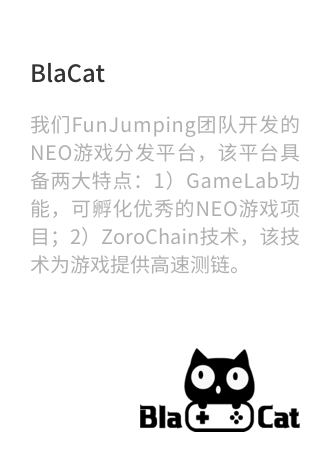
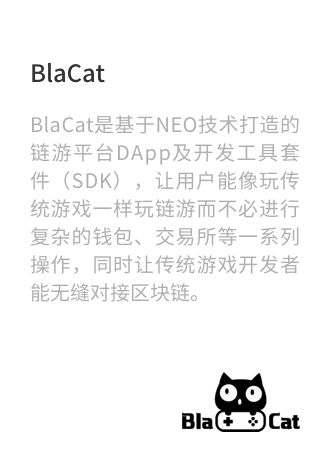
update blacat des

Changed region(s): [[0.0909, 0.2478, 0.9091, 0.6814], [0.4242, 0.7743, 0.9091, 0.9602]]

diff --git a/index.html b/index.html
@@ -241,7 +241,7 @@
                             <strong>BlaCat</strong>
                         </div>
                         <div class="project-des">
-                            <span>我们FunJumping团队开发的NEO游戏分发平台，该平台具备两大特点：1）GameLab功能，可孵化优秀的NEO游戏项目；2）ZoroChain技术，该技术为游戏提供高速测链。</span>
+                            <span>BlaCat是基于NEO技术打造的链游平台DApp及开发工具套件（SDK），让用户能像玩传统游戏一样玩链游而不必进行复杂的钱包、交易所等一系列操作，同时让传统游戏开发者能无缝对接区块链。</span>
                         </div>
                         <div class="noa-img">
                             <img src="./img/cat-no.png" class="display-no" alt="">

diff --git a/index-En.html b/index-En.html
@@ -241,7 +241,7 @@
                             <strong>BlaCat</strong>
                         </div>
                         <div class="project-des">
-                            <span>This NEO game distribution platform developed by our FunJumping team has: 1) GameLab, which incubates excellent NEO game projects; 2) ZoroChain, which provides high-speed side chain for games.</span>
+                            <span>BlaCat is NEO based dApp platform and SDK that makes its easier for conventional game developers to develop blockchain games, and simplifies the user experience for gamers.</span>
                         </div>
                         <div class="noa-img">
                             <img src="./img/cat-no.png" class="display-no" alt="">

diff --git a/css/media.less b/css/media.less
@@ -330,7 +330,8 @@
         width: 100%;
         height:48px;
         background: #333;
-        position: relative;
+        position: fixed;
+        top: 0;
         .menu{
             width: 20px;
             height: 20px;
@@ -426,6 +427,9 @@
                 display: none;
             }
         }
+    }
+    .continar{
+        margin-top: 48px;
     }
     .content-one{
         box-sizing: border-box;

diff --git a/css/media.css b/css/media.css
@@ -285,7 +285,8 @@
     width: 100%;
     height: 48px;
     background: #333;
-    position: relative;
+    position: fixed;
+    top: 0;
   }
   header .menu {
     width: 20px;
@@ -379,6 +380,9 @@
   }
   header .right .language-toggle {
     display: none;
+  }
+  .continar {
+    margin-top: 48px;
   }
   .content-one {
     box-sizing: border-box;
